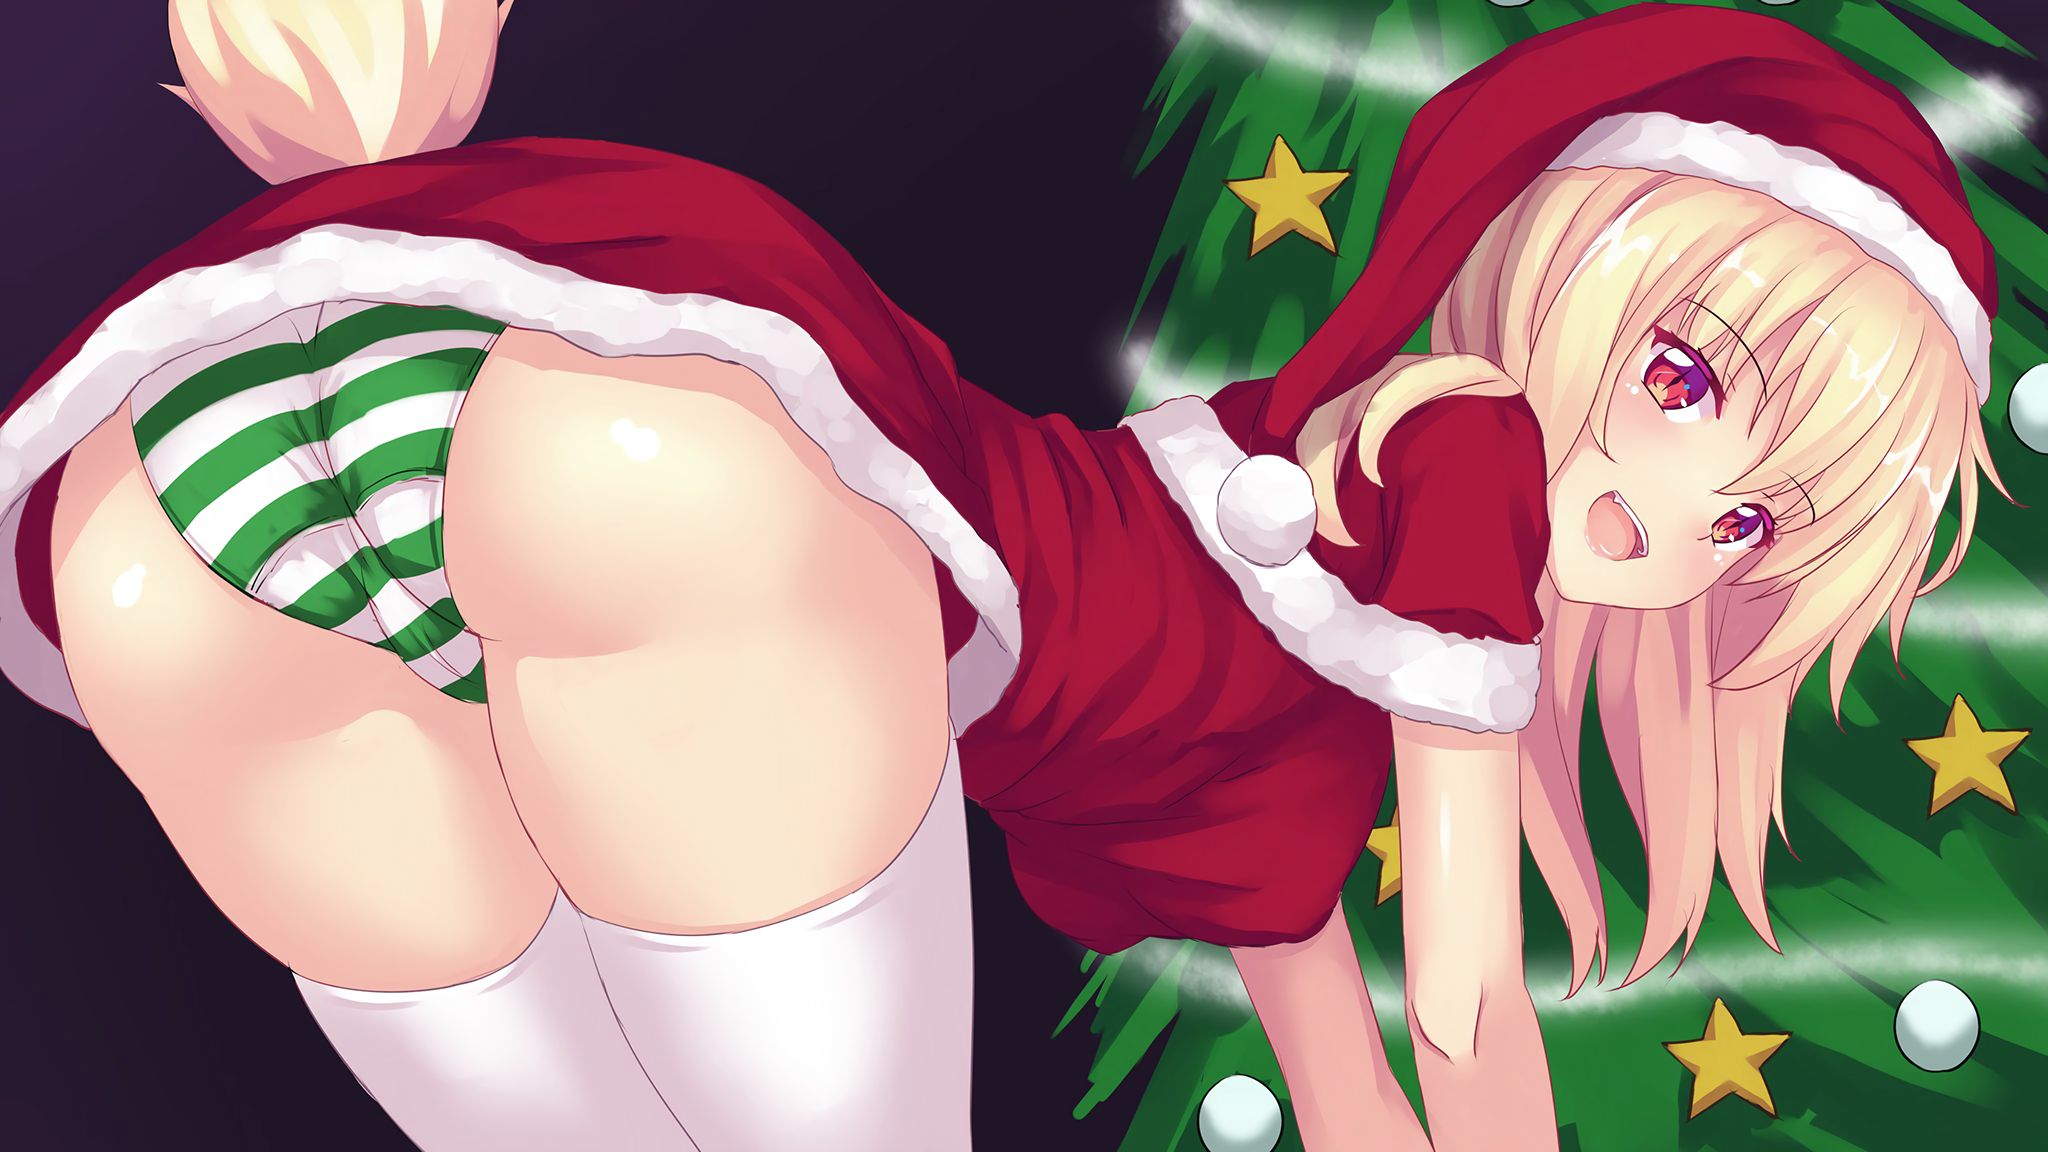
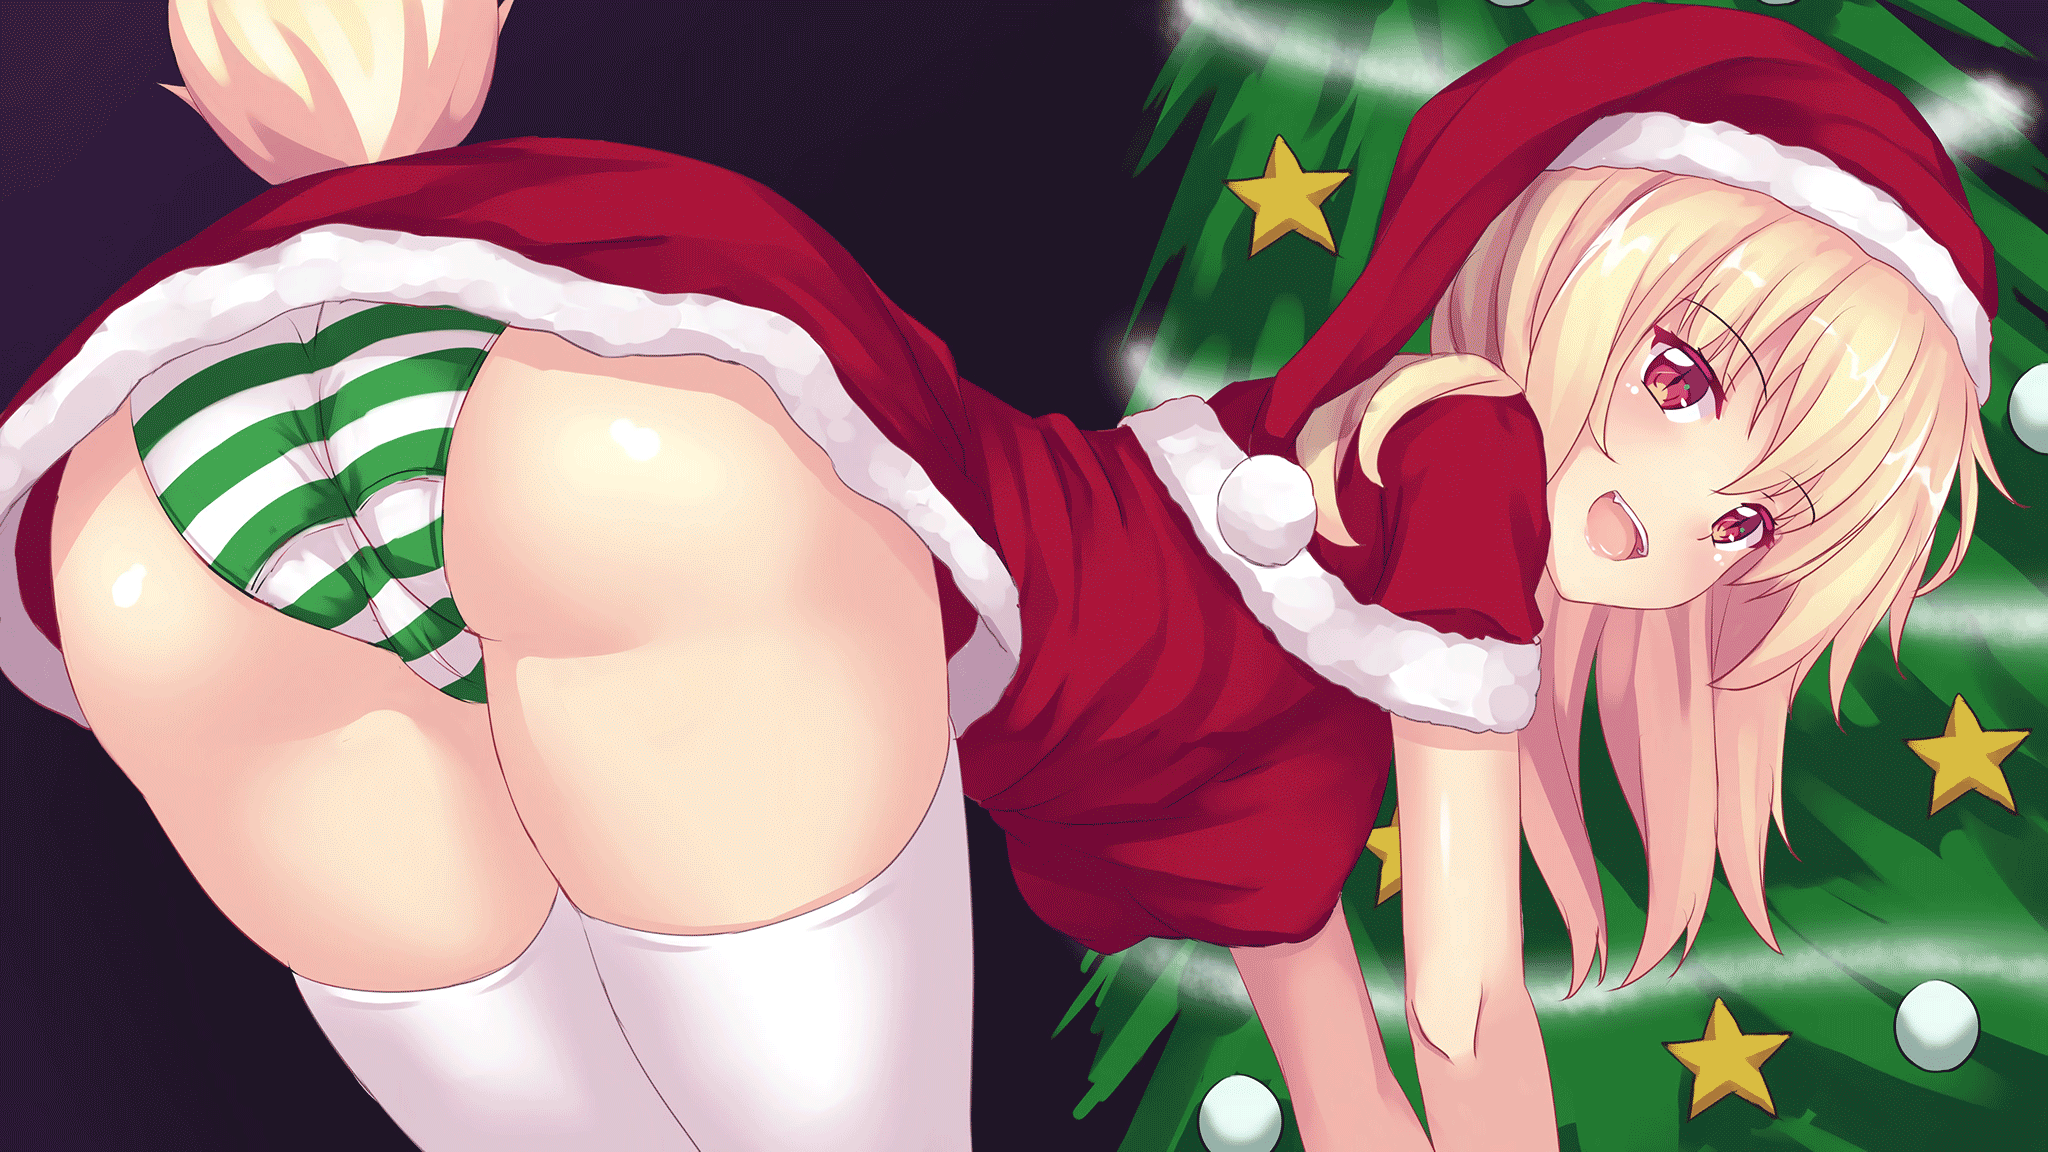
optimi img Xmas

diff --git a/Xmas/style.css b/Xmas/style.css
@@ -44,12 +44,12 @@ nav a.active{
     background-attachment: fixed;
 }
 .blue{
-    background-image: url(img/img2.jpg);
+    background-image: url(img/img2.png);
     background-size: cover;
     background-attachment: fixed;
 }
 .green{
-    background-image: url(img/img3.jpg);
+    background-image: url(img/img3.png);
     background-size: cover;
     background-attachment: fixed;
 }
@@ -59,7 +59,7 @@ nav a.active{
     background-attachment: fixed;
 }
 .black{
-    background-image: url(img/img5.jpg);
+    background-image: url(img/img5.png);
     background-size: cover;
     background-attachment: fixed;
 }
